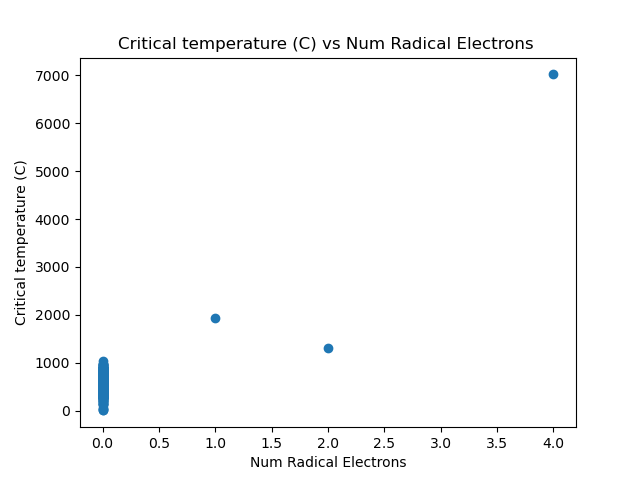
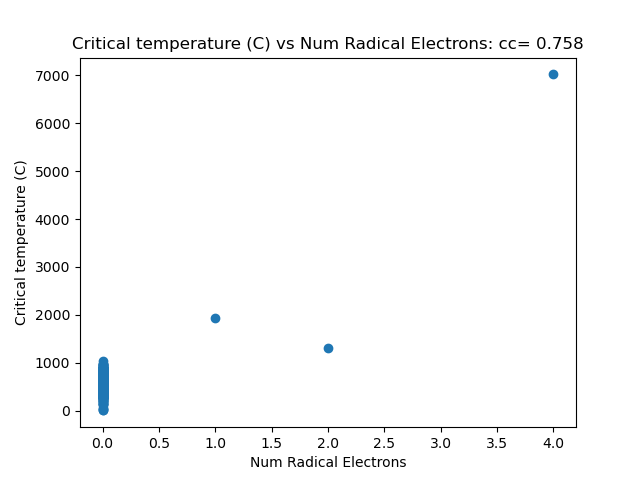
cleaning/organinzing

Changed region(s): [[0.125, 0.0625, 0.9062, 0.125]]

diff --git a/corr_coeff.py b/corr_coeff.py
@@ -1,7 +1,6 @@
 from make_molwt import df_descriptors, cTemp_list, molWt
 import numpy as np
 
-
 # Pearson's correlation coefficient calculator
 # want to loop through each column and calculate the value
 # make condition for loop to add name of column to list if >= 0.4
@@ -32,17 +31,24 @@ for column in df_descriptors.columns:
     # add anything left to best _cor
     else:
         best_cor.append(column)
+        best_cor.append(corr_coeff)
 
     
 
 # print each list for checking
-print("best corr count: {}".format(len(best_cor)))
+print("best corr count: {}".format(len(best_cor)/2))
 print("don't care count: {}".format(len(dont_care)))
 print("bad_descript count: {}".format(len(bad_descript)))
 
 
 # confirming that all descriptors are accounted for and are getting caught by a conditional 
-if (len(best_cor)+ len(bad_descript)+ len(dont_care) ) == len(df_descriptors.columns):
+if (len(best_cor)/2+ len(bad_descript)+ len(dont_care) ) == len(df_descriptors.columns):
     print("All descriptors are accounted for.")
 else:
     print("you fucked up. Missing decriptors.")
+
+
+# printing the best of the best
+print("Best correltations: {}".format(best_cor))
+
+

diff --git a/Molwt_graphs.py b/Molwt_graphs.py
@@ -30,7 +30,7 @@ plt.show()
 plt.scatter(molWt, cTemp_list)
 plt.xlabel('Mol weight (amu)')
 plt.ylabel('Critical temperature (C)')
-plt.title('Critical Temperature (C) vs Molecular size (amu)')
+plt.title('Critical Temperature (C) vs Molecular size (amu): cc = 0.215')
 plt.show()
 # how to get list of statistics, ie mean, median
 
@@ -75,5 +75,5 @@ NumRadicalElectrons = df_descriptors['NumRadicalElectrons']
 plt.scatter(NumRadicalElectrons, cTemp_list)
 plt.xlabel('Num Radical Electrons')
 plt.ylabel('Critical temperature (C)')
-plt.title('Critical temperature (C) vs Num Radical Electrons ')
+plt.title('Critical temperature (C) vs Num Radical Electrons: cc= 0.758')
 plt.show()

diff --git a/single_use_corr_coeff.py b/single_use_corr_coeff.py
@@ -1,0 +1,15 @@
+from make_molwt import df_descriptors, cTemp_list
+import numpy as np
+
+
+########### For rapid single use correlation coefficient finder with tc:
+name = "molWt and Tc"
+c = df_descriptors['MolWt']
+other_c_data = cTemp_list
+
+c_matrix = np.corrcoef(c, other_c_data)       # correlation coefficient math, thank you ChatGPT
+corr_coefficient = c_matrix[0, 1] 
+
+print("{}: {}".format(name, corr_coefficient ))
+
+########################################

diff --git a/Princ_component_analysis.py b/Princ_component_analysis.py
@@ -1,0 +1,7 @@
+# attempting to use princial component analysis to see if I can extrat more info from the 209 columns of descriptors
+
+
+from make_molwt import df_descriptors, cTemp_list, molWt
+import numpy as np
+from sklearn.decomposition import PCA
+
